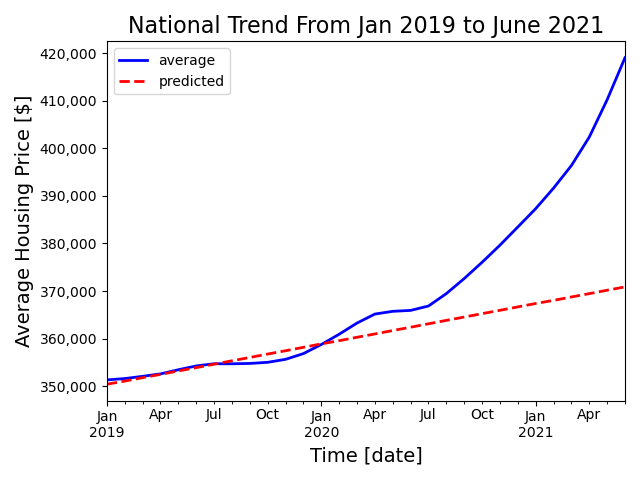
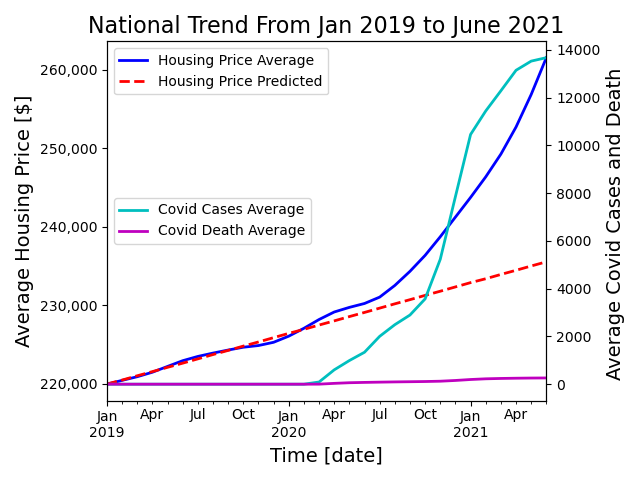
update figure 1

diff --git a/main.py b/main.py
@@ -59,12 +59,19 @@ def covid(df_z,df_p,df_d,df_c):
 
 
     #plot average
-    average_plot = df_z_average_T[['average','predicted']]
+    covid_average = pd.concat([df_c_average_T["average"],df_d_average_T["average"]],axis=1)
+    covid_average.columns=["Covid Cases Average", "Covid Death Average"]
+    z_average = df_z_average_T[['average','predicted']]
+    z_average.columns = ["Housing Price Average", "Housing Price Predicted"]
+    average_plot = pd.concat([covid_average, z_average], axis=1)
+    average_plot = average_plot[pd.notnull(average_plot["Housing Price Average"])]
+    average_plot = average_plot.fillna(0)
+
     fig, ax = plt.subplots()
     #fig =  average_plot.plot( )
-    styles = ['b-',  'r--']
-    linewidths = [2, 2]
-    for col, style, lw in zip(average_plot.columns, styles, linewidths):
+    styles = ['c-','m-','b-',  'r--']
+    linewidths = [2, 2,2,2]
+    for col, style, lw in zip(average_plot.columns[2:], styles[2:], linewidths[2:]):
         average_plot[col].plot(style=style, lw=lw, ax=ax)
     ax.legend()
     ax.get_yaxis().set_major_formatter(
@@ -72,6 +79,12 @@ def covid(df_z,df_p,df_d,df_c):
     ax.set_title ("National Trend From Jan 2019 to June 2021",fontsize=16)
     ax.set_xlabel("Time [date]", fontsize=14)
     ax.set_ylabel ("Average Housing Price [$]",fontsize=14)
+
+    ax1_2 =ax.twinx()
+    for col, style, lw in zip(average_plot.columns[:2], styles[:2], linewidths[:2]):
+        average_plot[col].plot(style=style, lw=lw, ax=ax1_2)
+    ax1_2.set_ylabel("Average Covid Cases and Death ", fontsize=14)
+    ax1_2.legend(loc="center left")
     plt.tight_layout()
     plt.savefig("image1.png")
 
@@ -86,7 +99,7 @@ def covid(df_z,df_p,df_d,df_c):
     diff_plot.plot()
     plt.tight_layout()
     plt.savefig("image2.png")
-    #plt.show()
+    plt.show()
 
 
 
@@ -109,7 +122,7 @@ def covid(df_z,df_p,df_d,df_c):
 
 
 if __name__ == '__main__':
-    real =False
+    real =True
     generate = False
 
     # generate
